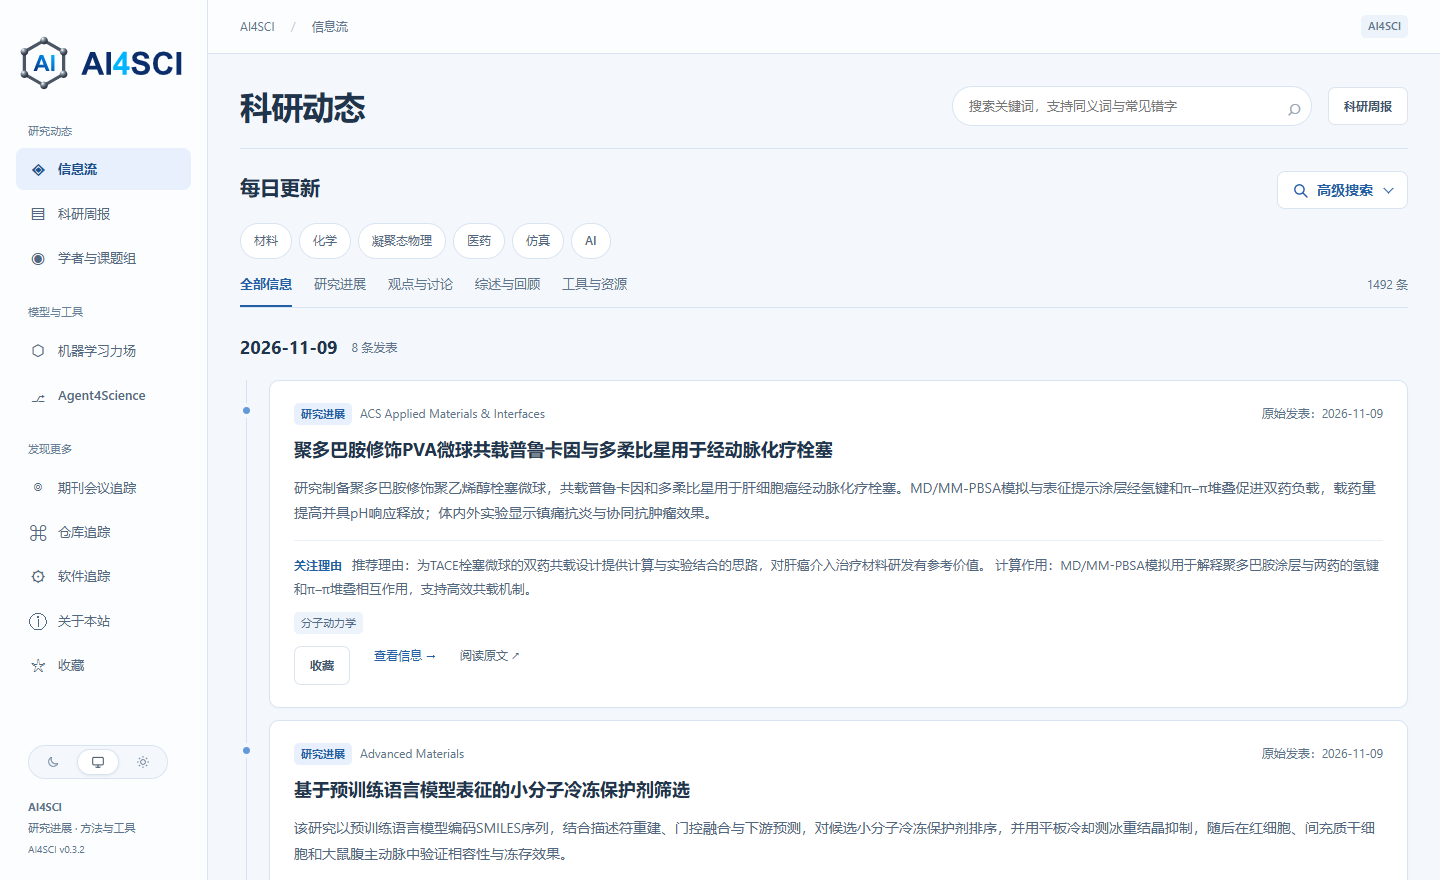
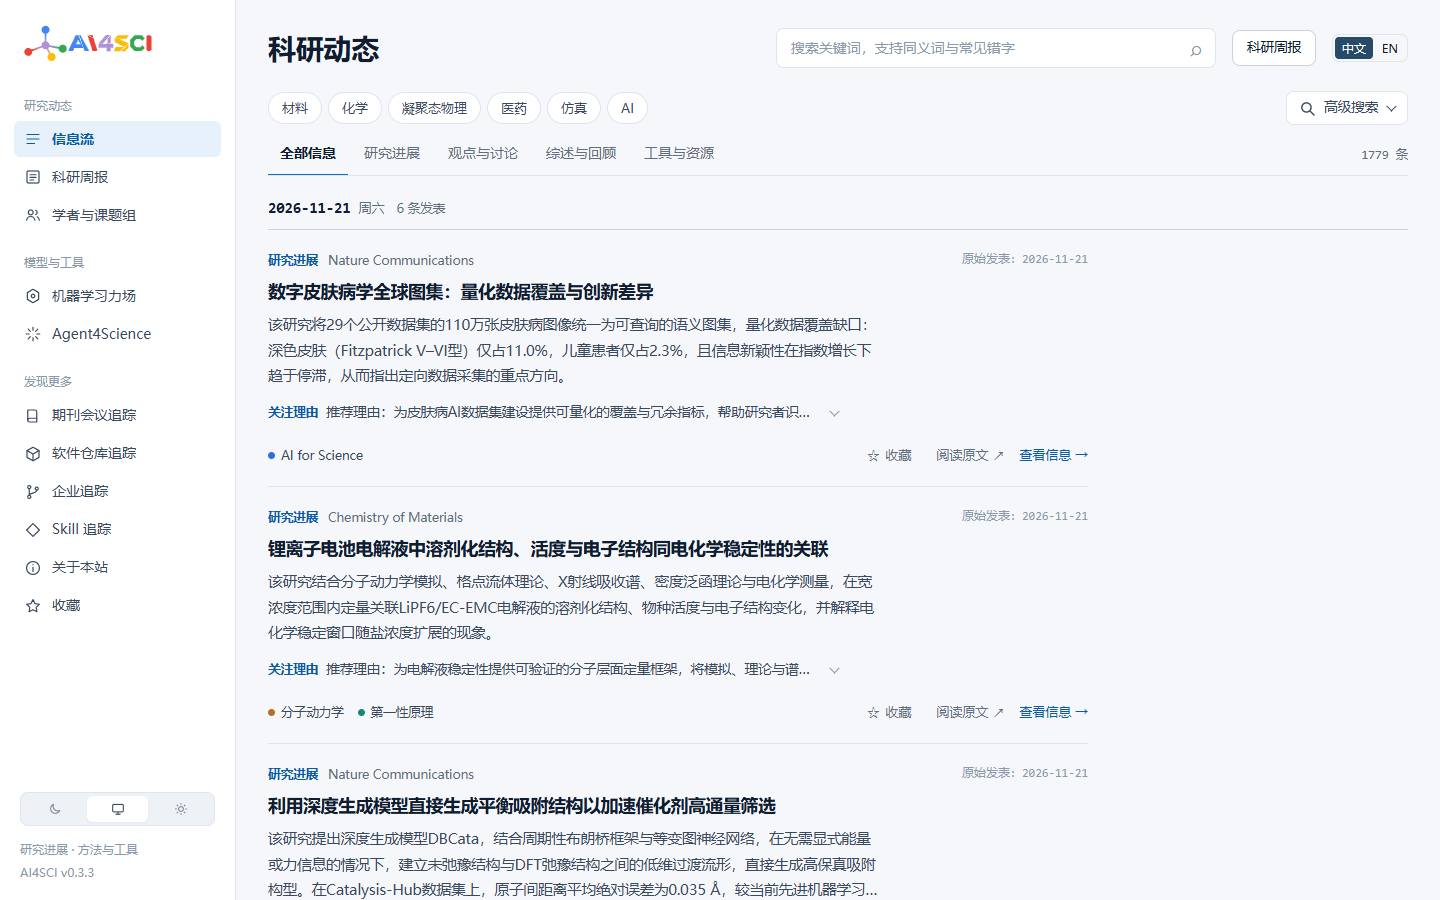
Refresh the Chinese and English screenshots from the live site

diff --git a/README.en.md b/README.en.md
@@ -23,9 +23,9 @@ AI4SCI curates research that uses AI or scientific computing in materials scienc
 
 Use the site’s language switch to browse the same sections in English or Chinese. English paper pages show the author’s original abstract where available. The Chinese edition provides abstract translations and explains why papers are worth reading. Selected open-access papers also have reading guides.
 
-[![Example of the AI4SCI feed showing date groups, filters, and paper cards](assets/feed.png)][home]
+[![English AI4SCI feed showing date groups, filters, and paper cards](assets/feed-en.png)][home]
 
-*The screenshot shows the Chinese interface. Open the live feed for the current navigation.*
+*English desktop site, captured November 22, 2026.*
 
 ## Explore AI4SCI
 
@@ -56,7 +56,7 @@ The [machine-learning force field page][mlff] opens with the overall Matbench Di
 
 The page keeps the source rankings and links, including the separate NIST CHIPS-FF benchmarks. Follow those links to check the test set, metric, and model version before comparing scores.
 
-[![Example of the machine-learning force field leaderboards and task tabs](assets/mlff.png)][mlff]
+[![English machine-learning force field leaderboard and task tabs](assets/mlff-en.png)][mlff]
 
 ### Follow a tool, from its name to the official release notes
 
